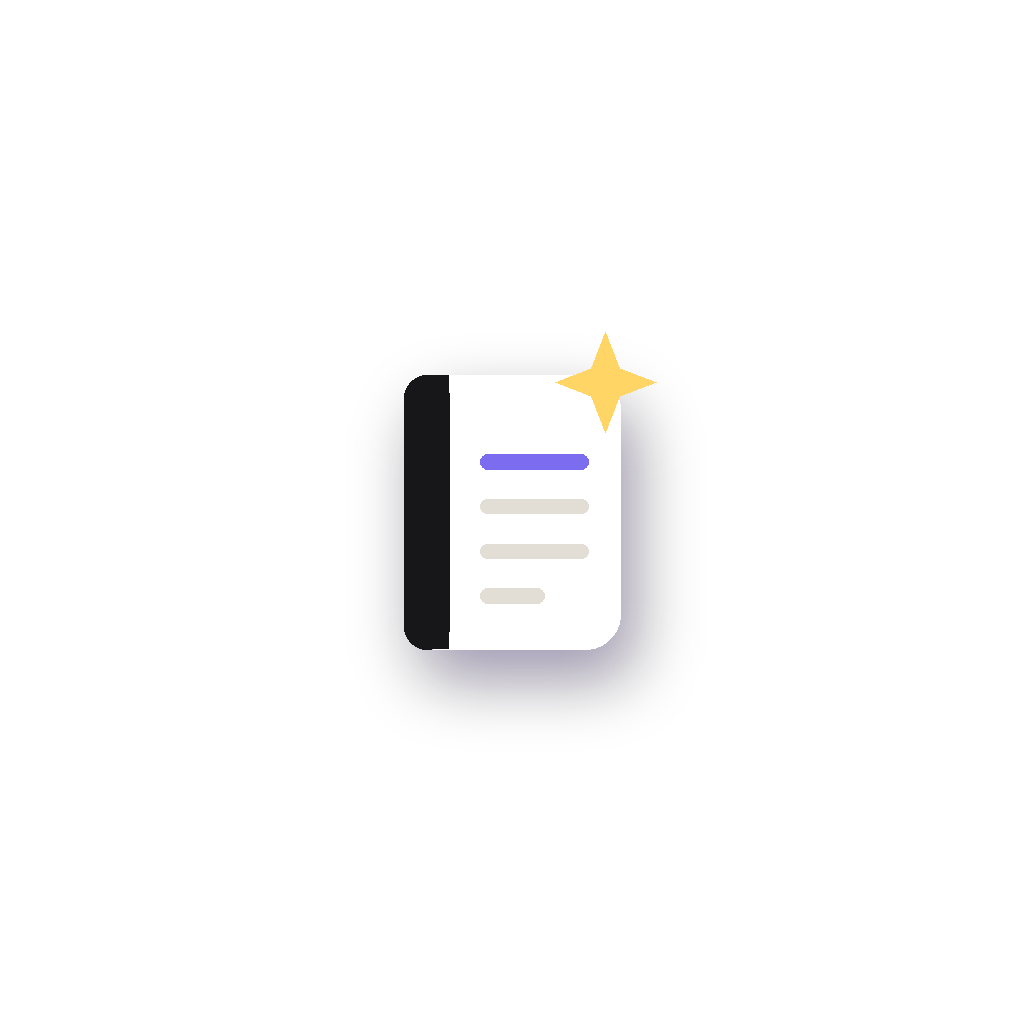
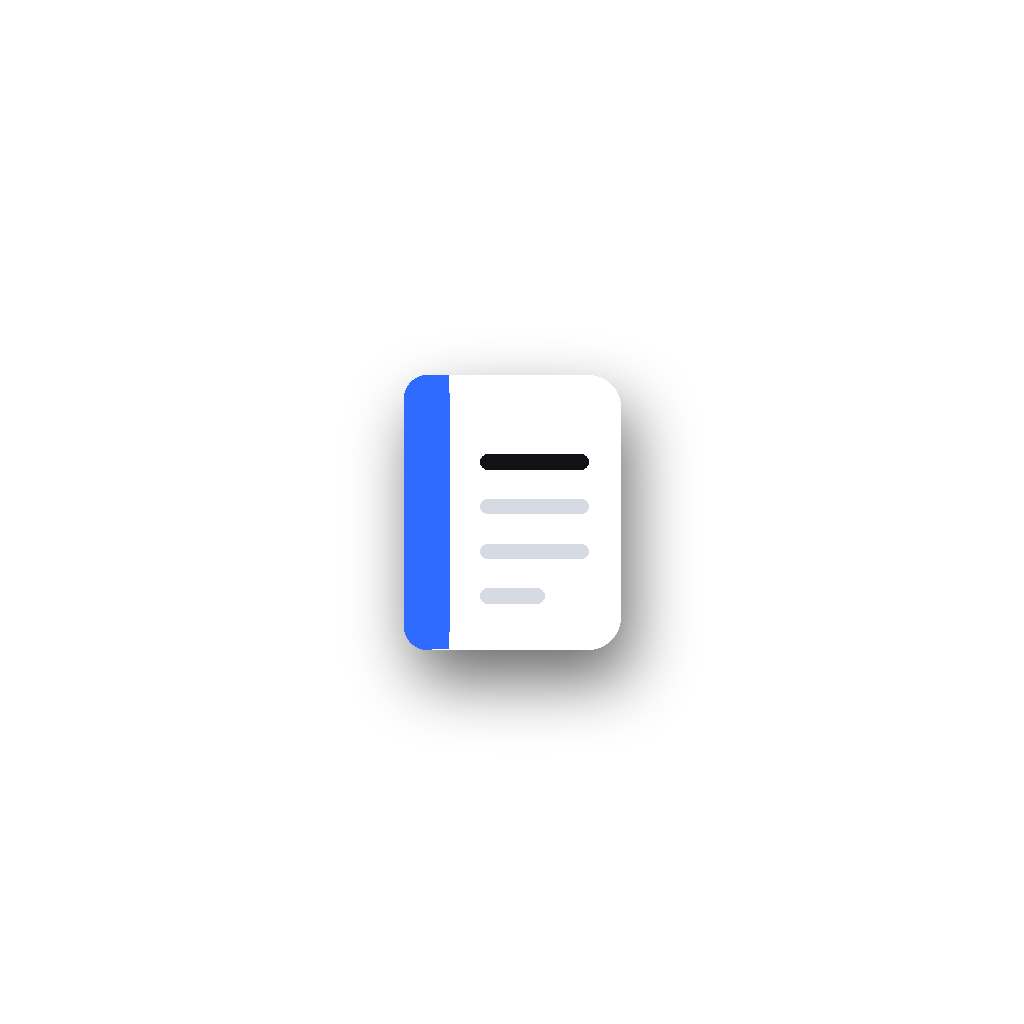
Wygląd: jedna czysta czcionka (Inter), chłodne kolory, bez ozdobników; nowa ikona
Claude-Session: https://claude.ai/code/session_01J23tLEMN7w8JehyoJbj2NF

Changed region(s): [[0.375, 0.3438, 0.625, 0.6875], [0.5312, 0.3125, 0.625, 0.4062]]

diff --git a/src/styles.css b/src/styles.css
@@ -1,17 +1,15 @@
-@import "@fontsource-variable/plus-jakarta-sans/index.css";
-@import "@fontsource/instrument-serif/400.css";
-@import "@fontsource/instrument-serif/400-italic.css";
+@import "@fontsource-variable/inter/index.css";
 
 :root {
-  --accent: #7c6cf0;
+  --accent: #2f6bff;
   --accent-ink: #fff;
-  --bg: #f4f2ed;
+  --bg: #f2f3f5;
   --surface: #ffffff;
-  --surface-2: #ebe8e1;
-  --surface-3: #e2ded5;
-  --ink: #17171a;
-  --ink-2: #4a4945;
-  --muted: #8e8b84;
+  --surface-2: #e8eaee;
+  --surface-3: #dcdfe5;
+  --ink: #0c0d10;
+  --ink-2: #464a52;
+  --muted: #858a94;
   --line: rgba(20, 18, 14, 0.07);
   --shadow: 0 1px 2px rgba(20, 18, 14, 0.04), 0 8px 24px -12px rgba(20, 18, 14, 0.12);
   --shadow-lg: 0 24px 60px -20px rgba(20, 18, 14, 0.35);
@@ -25,8 +23,8 @@
   --sab: var(--safe-area-inset-bottom, env(safe-area-inset-bottom, 0px));
   --ease: cubic-bezier(0.22, 1, 0.36, 1);
   --spring: cubic-bezier(0.34, 1.56, 0.64, 1);
-  --font: "Plus Jakarta Sans Variable", system-ui, sans-serif;
-  --serif: "Instrument Serif", Georgia, serif;
+  --font: "Inter Variable", system-ui, sans-serif;
+  --serif: "Inter Variable", system-ui, sans-serif;
   color-scheme: light;
 }
 :root.dark {
@@ -50,7 +48,7 @@ input, textarea, select, button { font: inherit; color: inherit; }
 button { border: 0; background: none; padding: 0; cursor: pointer; }
 textarea, input { user-select: text; }
 svg { display: block; }
-.serif { font-family: var(--serif); font-weight: 400; letter-spacing: -0.01em; }
+.serif { font-family: var(--font); font-weight: 800; letter-spacing: -0.045em; }
 .muted { color: var(--muted); }
 .hidden { display: none !important; }
 
@@ -86,7 +84,7 @@ svg { display: block; }
 .hello { margin: 6px 0 22px; animation: rise .6s var(--ease) both; }
 .hello .date { font-size: 13px; color: var(--muted); font-weight: 600; text-transform: uppercase; letter-spacing: .08em; }
 .hello h1 { margin: 6px 0 0; font-size: 40px; line-height: 1.02; }
-.hello h1 em { color: var(--accent); }
+.hello h1 span { color: var(--accent); }
 .title-row { display: flex; align-items: flex-end; justify-content: space-between; margin: 6px 0 20px; }
 .title-row h1 { margin: 0; font-size: 42px; line-height: 1; }
 .title-row .sub { font-size: 13px; color: var(--muted); margin-top: 6px; font-weight: 500; }
@@ -116,7 +114,7 @@ svg { display: block; }
 .hero .label { font-size: 12px; text-transform: uppercase; letter-spacing: .1em; opacity: .6; font-weight: 700; display: flex; align-items: center; gap: 8px; }
 .hero .label .live { width: 8px; height: 8px; border-radius: 50%; background: #4ade80; box-shadow: 0 0 0 0 rgba(74,222,128,.6); animation: ping 1.8s infinite; }
 @keyframes ping { 0% { box-shadow: 0 0 0 0 rgba(74,222,128,.6) } 100% { box-shadow: 0 0 0 10px rgba(74,222,128,0) } }
-.hero .big { font-family: var(--serif); font-size: 36px; line-height: 1.05; margin: 10px 0 4px; }
+.hero .big { font-family: var(--font); font-weight: 800 !important; letter-spacing: -0.045em; font-size: 36px; line-height: 1.05; margin: 10px 0 4px; }
 .hero .meta { font-size: 13px; opacity: .7; }
 .hero .bar { height: 4px; background: rgba(255,255,255,.15); border-radius: 4px; margin-top: 16px; overflow: hidden; }
 :root.dark .hero { background: var(--surface-2); color: var(--ink); }
@@ -135,11 +133,11 @@ svg { display: block; }
 .quick .ic svg { width: 20px; height: 20px; }
 
 .countdown { display: flex; align-items: center; gap: 16px; }
-.countdown .num { font-family: var(--serif); font-size: 54px; line-height: .9; color: var(--accent); font-variant-numeric: tabular-nums; }
+.countdown .num { font-family: var(--font); font-weight: 800 !important; letter-spacing: -0.045em; font-size: 54px; line-height: .9; color: var(--accent); font-variant-numeric: tabular-nums; }
 .countdown .txt { font-size: 13px; color: var(--muted); line-height: 1.4; }
 .countdown .txt b { color: var(--ink); display: block; font-size: 15px; }
 
-.quote { font-family: var(--serif); font-style: italic; font-size: 22px; line-height: 1.25; }
+.quote { font-family: var(--font); font-weight: 800 !important; letter-spacing: -0.045em; font-style: italic; font-size: 22px; line-height: 1.25; }
 .quote small { display: block; font-family: var(--font); font-style: normal; font-size: 12px; color: var(--muted); margin-top: 10px; }
 
 /* ---------- reminders ---------- */
@@ -186,9 +184,9 @@ svg { display: block; }
 
 /* ---------- empty ---------- */
 .empty { text-align: center; padding: 50px 20px; animation: rise .6s var(--ease) both; }
-.empty .blob { width: 120px; height: 120px; margin: 0 auto 18px; border-radius: 42% 58% 63% 37% / 41% 44% 56% 59%; background: color-mix(in srgb, var(--accent) 16%, transparent); display: grid; place-items: center; font-size: 46px; animation: morph 8s ease-in-out infinite; }
+.empty .blob { width: 120px; height: 120px; margin: 0 auto 18px; border-radius: 32px; background: var(--surface); box-shadow: var(--shadow); display: grid; place-items: center; font-size: 46px; }
 @keyframes morph { 0%,100% { border-radius: 42% 58% 63% 37% / 41% 44% 56% 59%; } 50% { border-radius: 63% 37% 38% 62% / 55% 61% 39% 45%; transform: rotate(8deg); } }
-.empty h4 { font-family: var(--serif); font-size: 26px; font-weight: 400; margin: 0 0 6px; }
+.empty h4 { font-family: var(--font); font-weight: 800 !important; letter-spacing: -0.045em; font-size: 26px; font-weight: 400; margin: 0 0 6px; }
 .empty p { color: var(--muted); font-size: 14px; margin: 0 auto; max-width: 260px; line-height: 1.5; }
 
 /* ---------- notes ---------- */
@@ -211,7 +209,7 @@ svg { display: block; }
 .nd-hero { border-radius: var(--r-lg); overflow: hidden; position: relative; aspect-ratio: 16/10; background: var(--surface-2) center/cover; box-shadow: var(--shadow); animation: zoomIn .6s var(--ease) both; }
 @keyframes zoomIn { from { transform: scale(.94); opacity: 0 } }
 .nd-hero .count { position: absolute; right: 12px; bottom: 12px; background: rgba(0,0,0,.55); color: #fff; font-size: 12px; font-weight: 700; padding: 6px 10px; border-radius: 99px; backdrop-filter: blur(8px); }
-.nd-title { font-family: var(--serif); font-size: 34px; line-height: 1.05; margin: 20px 0 8px; }
+.nd-title { font-family: var(--font); font-weight: 800 !important; letter-spacing: -0.045em; font-size: 34px; line-height: 1.05; margin: 20px 0 8px; }
 .tabs { display: flex; gap: 6px; overflow-x: auto; margin: 18px -20px 14px; padding: 0 20px; scrollbar-width: none; }
 .tabs::-webkit-scrollbar { display: none; }
 .tabs button { flex: none; padding: 9px 14px; border-radius: 99px; font-size: 13px; font-weight: 650; color: var(--muted); background: var(--surface-2); transition: all .3s var(--ease); }
@@ -261,7 +259,7 @@ svg { display: block; }
 .fc .back { transform: rotateY(180deg); background: var(--ink); color: var(--bg); }
 :root.dark .fc .back { background: var(--accent); color: #fff; }
 .fc .side .k { font-size: 11px; text-transform: uppercase; letter-spacing: .14em; font-weight: 700; opacity: .5; position: absolute; top: 22px; }
-.fc .side .q { font-family: var(--serif); font-size: 30px; line-height: 1.15; }
+.fc .side .q { font-family: var(--font); font-weight: 800 !important; letter-spacing: -0.045em; font-size: 30px; line-height: 1.15; }
 .fc .side .a { font-size: 18px; line-height: 1.5; }
 .fc .side .hint { position: absolute; bottom: 20px; font-size: 12px; opacity: .45; }
 .fc-btns { display: grid; grid-template-columns: 1fr 1fr; gap: 12px; margin-top: 22px; }
@@ -269,7 +267,7 @@ svg { display: block; }
 .progress i { display: block; height: 100%; background: var(--accent); border-radius: 6px; transition: width .5s var(--ease); }
 
 /* quiz */
-.qz-q { font-family: var(--serif); font-size: 28px; line-height: 1.15; margin: 22px 0 22px; animation: rise .5s var(--ease) both; }
+.qz-q { font-family: var(--font); font-weight: 800 !important; letter-spacing: -0.045em; font-size: 28px; line-height: 1.15; margin: 22px 0 22px; animation: rise .5s var(--ease) both; }
 .qz-opt { display: flex; align-items: center; gap: 12px; width: 100%; text-align: left; background: var(--surface); border-radius: 18px; padding: 16px; font-size: 15px; font-weight: 550; box-shadow: var(--shadow); border: 2px solid transparent; transition: all .3s var(--ease); animation: rise .5s var(--ease) both; }
 .qz-opt + .qz-opt { margin-top: 10px; }
 .qz-opt .l { width: 30px; height: 30px; border-radius: 10px; background: var(--surface-2); display: grid; place-items: center; font-weight: 800; font-size: 13px; flex: none; transition: all .3s; }
@@ -281,7 +279,7 @@ svg { display: block; }
 .result-ring { width: 180px; height: 180px; margin: 30px auto 10px; position: relative; }
 .result-ring svg { width: 100%; height: 100%; transform: rotate(-90deg); }
 .result-ring .c { position: absolute; inset: 0; display: grid; place-items: center; text-align: center; }
-.result-ring .c b { font-family: var(--serif); font-size: 52px; font-weight: 400; display: block; line-height: 1; }
+.result-ring .c b { font-family: var(--font); font-weight: 800 !important; letter-spacing: -0.045em; font-size: 52px; font-weight: 400; display: block; line-height: 1; }
 
 /* ---------- focus ---------- */
 .focus-ring { width: min(78vw, 300px); aspect-ratio: 1; margin: 20px auto 10px; position: relative; }
@@ -290,7 +288,7 @@ svg { display: block; }
 .focus-ring .trk { stroke: var(--surface-2); }
 .focus-ring .val { stroke: var(--accent); transition: stroke-dashoffset 1s linear; filter: drop-shadow(0 0 10px color-mix(in srgb, var(--accent) 50%, transparent)); }
 .focus-ring .c { position: absolute; inset: 0; display: grid; place-items: center; text-align: center; }
-.focus-ring .time { font-family: var(--serif); font-size: 68px; line-height: 1; font-variant-numeric: tabular-nums; }
+.focus-ring .time { font-family: var(--font); font-weight: 800 !important; letter-spacing: -0.045em; font-size: 68px; line-height: 1; font-variant-numeric: tabular-nums; }
 .focus-ring .mode { font-size: 12px; font-weight: 700; letter-spacing: .14em; text-transform: uppercase; color: var(--muted); margin-top: 6px; }
 .focus-ring.run .val { animation: breathe 4s ease-in-out infinite; }
 @keyframes breathe { 50% { filter: drop-shadow(0 0 22px color-mix(in srgb, var(--accent) 70%, transparent)); } }
@@ -351,7 +349,7 @@ svg { display: block; }
 @keyframes pop { from { transform: scale(0) } }
 .g sup { position: absolute; top: -4px; right: -4px; font-size: 9px; background: var(--ink); color: var(--bg); border-radius: 6px; padding: 1px 4px; }
 .big-avg { text-align: center; padding: 10px 0 4px; }
-.big-avg b { font-family: var(--serif); font-size: 72px; font-weight: 400; line-height: 1; color: var(--accent); }
+.big-avg b { font-family: var(--font); font-weight: 800 !important; letter-spacing: -0.045em; font-size: 72px; font-weight: 400; line-height: 1; color: var(--accent); }
 .big-avg span { display: block; font-size: 13px; color: var(--muted); font-weight: 600; margin-top: 4px; }
 
 /* ---------- nav ---------- */
@@ -377,7 +375,7 @@ svg { display: block; }
 .sheet::-webkit-scrollbar { display: none; }
 .sheet.in { transform: none; }
 .sheet .grab { width: 40px; height: 5px; border-radius: 5px; background: var(--surface-3); margin: 0 auto 14px; }
-.sheet h3 { font-family: var(--serif); font-weight: 400; font-size: 30px; margin: 4px 0 18px; }
+.sheet h3 { font-family: var(--font); font-weight: 800 !important; letter-spacing: -0.045em; font-weight: 400; font-size: 30px; margin: 4px 0 18px; }
 .field { margin-bottom: 16px; }
 .field label { display: block; font-size: 12px; font-weight: 700; color: var(--muted); text-transform: uppercase; letter-spacing: .08em; margin: 0 0 8px 4px; }
 .inp { width: 100%; border: 0; outline: 0; background: var(--surface); border-radius: 16px; padding: 14px 16px; font-size: 16px; box-shadow: var(--shadow); transition: box-shadow .25s; }
@@ -421,7 +419,7 @@ textarea.inp { resize: none; min-height: 84px; line-height: 1.5; }
 @keyframes spinSlow { to { rotate: 360deg } }
 .onb .orb-emoji { position: absolute; font-size: 74px; animation: bob 3s ease-in-out infinite; }
 @keyframes bob { 50% { transform: translateY(-10px) rotate(-6deg) } }
-.onb h1 { font-family: var(--serif); font-weight: 400; font-size: 46px; line-height: 1; margin: 0 0 12px; animation: rise .7s var(--ease) both .1s; }
+.onb h1 { font-family: var(--font); font-weight: 800 !important; letter-spacing: -0.045em; font-weight: 400; font-size: 46px; line-height: 1; margin: 0 0 12px; animation: rise .7s var(--ease) both .1s; }
 .onb p { color: var(--muted); font-size: 15px; line-height: 1.55; margin: 0 0 22px; animation: rise .7s var(--ease) both .2s; }
 .onb .inp, .onb .btn { animation: rise .7s var(--ease) both .3s; }
 
@@ -435,3 +433,18 @@ textarea.inp { resize: none; min-height: 84px; line-height: 1.5; }
 .page-bar { background: color-mix(in srgb, var(--bg) 85%, transparent); backdrop-filter: blur(14px); -webkit-backdrop-filter: blur(14px); margin: -10px -20px 8px; padding: 10px 20px 0; height: 62px; top: calc(-10px - var(--sat)); padding-top: calc(10px); }
 .card .inp { background: var(--surface-2); box-shadow: none; }
 .card .inp:focus { box-shadow: 0 0 0 2px var(--accent); }
+
+/* --- clean overrides --- */
+.quote { font-weight: 600 !important; font-style: normal; font-size: 17px; letter-spacing: -0.01em; line-height: 1.45; }
+.title-row h1 { font-size: 38px; }
+.hello h1 { font-size: 36px; }
+.nd-title { font-size: 28px; }
+.qz-q { font-size: 24px; letter-spacing: -0.03em; }
+.fc .side .q { font-size: 26px; letter-spacing: -0.03em; }
+.hero .big { font-size: 30px; }
+.big-avg b, .result-ring .c b, .focus-ring .time { letter-spacing: -0.05em; }
+.focus-ring .time { font-size: 60px; }
+.onb .logo { width: 120px; height: 120px; border-radius: 34px; background: #111214; display: grid; place-items: center; box-shadow: 0 30px 70px -25px var(--accent); animation: rise .7s var(--ease) both; }
+.onb .logo svg { width: 56px; height: 56px; color: #fff; }
+.onb .logo .dot { position: absolute; }
+.onb h1 { font-family: var(--font); font-weight: 800; letter-spacing: -0.045em; font-size: 40px; }

diff --git a/src/main.js b/src/main.js
@@ -23,13 +23,13 @@ const MONTHS = ['stycznia', 'lutego', 'marca', 'kwietnia', 'maja', 'czerwca', 'l
 const plural = (n, a, b, c) => (n === 1 ? a : n % 10 >= 2 && n % 10 <= 4 && (n % 100 < 10 || n % 100 >= 20) ? b : c);
 
 /* ======================= STATE ======================= */
-const COLORS = ['#7c6cf0', '#e0679a', '#f08a5d', '#e9b949', '#5e9e7e', '#3b9fc4', '#4f6bed', '#a35ee0', '#8a8780', '#e5534b'];
-const ACCENTS = [['Lawenda', '#7c6cf0'], ['Szałwia', '#4f9a76'], ['Brzoskwinia', '#ec7f52'], ['Ocean', '#3384c4'], ['Róż', '#de5f95'], ['Grafit', '#3a3a40']];
+const COLORS = ['#2f6bff', '#0891b2', '#f97316', '#eab308', '#16a34a', '#0ea5e9', '#6366f1', '#64748b', '#ef4444', '#14b8a6'];
+const ACCENTS = [['Niebieski', '#2f6bff'], ['Zielony', '#16a34a'], ['Pomarańczowy', '#f97316'], ['Czerwony', '#ef4444'], ['Turkusowy', '#0891b2'], ['Grafit', '#27272a']];
 const EMOJIS = ['📘', '📐', '🧪', '🧬', '🌍', '🏛', '🇬🇧', '🇩🇪', '💻', '⚽', '🎨', '🎵', '⚛', '📖', '✝', '🧠', '💼', '🔢', '🧲', '🌱', '📝', '🎭', '🏥', '⭐'];
 const defaultSubjects = () => [
-  ['Polski', '📖', '#e0679a'], ['Matematyka', '📐', '#4f6bed'], ['Angielski', '🇬🇧', '#3b9fc4'], ['Historia', '🏛', '#e9b949'],
-  ['Biologia', '🧬', '#5e9e7e'], ['Chemia', '🧪', '#a35ee0'], ['Fizyka', '⚛', '#f08a5d'], ['Geografia', '🌍', '#3fa672'],
-  ['Informatyka', '💻', '#7c6cf0'], ['WF', '⚽', '#8a8780'],
+  ['Polski', '📖', '#ef4444'], ['Matematyka', '📐', '#2f6bff'], ['Angielski', '🇬🇧', '#0ea5e9'], ['Historia', '🏛', '#eab308'],
+  ['Biologia', '🧬', '#16a34a'], ['Chemia', '🧪', '#6366f1'], ['Fizyka', '⚛', '#f97316'], ['Geografia', '🌍', '#14b8a6'],
+  ['Informatyka', '💻', '#0891b2'], ['WF', '⚽', '#64748b'],
 ].map(([name, emoji, color]) => ({ id: uid(), name, emoji, color }));
 
 const TYPES = [
@@ -46,7 +46,7 @@ const REMIND = [
 
 let S = null;
 const blank = () => ({
-  v: 1, name: '', theme: 'auto', accent: '#7c6cf0', apiKey: '', model: 'claude-haiku-5-5', aiProvider: 'gemini', geminiKey: '', geminiModel: 'gemini-flash-latest',
+  v: 1, name: '', theme: 'auto', accent: '#2f6bff', apiKey: '', model: 'claude-haiku-5-5', aiProvider: 'gemini', geminiKey: '', geminiModel: 'gemini-flash-latest',
   subjects: defaultSubjects(), reminders: [], notes: [], cards: {}, timetable: { 1: [], 2: [], 3: [], 4: [], 5: [] },
   grades: [], focus: {}, activity: {}, focusCfg: { work: 25, brk: 5 }, vacation: '2027-06-25', digest: true, onboarded: false,
 });
@@ -89,7 +89,7 @@ function confetti(x = innerWidth / 2, y = innerHeight / 2, n = 90) {
   document.body.append(c);
   const g = c.getContext('2d'); g.scale(devicePixelRatio, devicePixelRatio);
   const acc = getComputedStyle(document.documentElement).getPropertyValue('--accent').trim();
-  const cols = [acc, '#f0a6ca', '#9be7c4', '#ffd166', '#7cc6fe'];
+  const cols = [acc, '#facc15', '#22c55e', '#38bdf8', '#f97316'];
   const ps = Array.from({ length: n }, () => {
     const a = Math.random() * Math.PI * 2, v = 4 + Math.random() * 9;
     return { x, y, vx: Math.cos(a) * v, vy: Math.sin(a) * v - 6, r: Math.random() * 6 + 3, c: cols[(Math.random() * cols.length) | 0], rot: Math.random() * 6, vr: (Math.random() - 0.5) * 0.4, s: Math.random() > 0.5 };
@@ -359,7 +359,7 @@ function viewHome(v) {
   const vac = Math.max(0, dayDiff(new Date(S.vacation + 'T00:00')));
   const recent = S.notes.slice(0, 2);
   v.innerHTML = `
-  <div class="hello"><div class="date">${fmtLong(new Date())}</div><h1 class="serif">${greet}${S.name ? ',<br><em>' + esc(S.name) + '</em>' : ''}</h1></div>
+  <div class="hello"><div class="date">${fmtLong(new Date())}</div><h1 class="serif">${greet}${S.name ? ',<br><span>' + esc(S.name) + '</span>' : ''}</h1></div>
   <div class="stagger">
     ${heroHTML()}
     <div class="stats">
@@ -1044,7 +1044,7 @@ function viewMore(v) {
     <button class="row" data-go="settings"><div class="ic">${ic('gear')}</div><div class="main"><b>Ustawienia</b><span>wygląd, AI, powiadomienia</span></div><div class="end">${ic('chev')}</div></button>
     <button class="row" data-theme><div class="ic">${ic(document.documentElement.classList.contains('dark') ? 'sun' : 'moon')}</div><div class="main"><b>Tryb ${document.documentElement.classList.contains('dark') ? 'jasny' : 'ciemny'}</b><span>przełącz szybko</span></div></button>
   </div>
-  <p class="kbd-note" style="text-align:center;margin-top:30px">Zeszyt · v1.0 · zrobione z 💜</p>`;
+  <p class="kbd-note" style="text-align:center;margin-top:30px">Zeszyt · v1.1</p>`;
   bindCommon(v);
   $('[data-theme]', v).onclick = () => { S.theme = document.documentElement.classList.contains('dark') ? 'light' : 'dark'; save(); applyTheme(); haptic(); render(); };
 }
@@ -1124,8 +1124,8 @@ function pageSettings() {
 /* ======================= ONBOARDING ======================= */
 function onboarding() {
   const o = document.createElement('div'); o.className = 'onb';
-  o.innerHTML = `<div class="art"><div class="orb"></div><div class="orb-emoji">📚</div></div>
-    <h1>Twój szkolny<br><i>zeszyt</i>.</h1>
+  o.innerHTML = `<div class="art"><div class="logo">${ic('note')}</div></div>
+    <h1>Zeszyt.</h1>
     <p>Przypominajki o sprawdzianach, notatki ze zdjęć streszczane przez AI, fiszki, quizy, plan lekcji i oceny — w jednym miejscu.</p>
     <input class="inp" id="ob-n" placeholder="Jak masz na imię?" style="margin-bottom:12px">
     <button class="btn" id="ob-go">Zaczynamy →</button>`;
@@ -1143,6 +1143,7 @@ function onboarding() {
 async function boot() {
   try { S = await kvGet('state'); } catch {}
   S = { ...blank(), ...(S || {}) };
+  if (['#7c6cf0', '#de5f95', '#4f9a76', '#ec7f52', '#3384c4', '#3a3a40'].includes(S.accent)) S.accent = '#2f6bff';
   applyTheme();
   buildShell();
   render(true);

diff --git a/www/index.html b/www/index.html
@@ -3,7 +3,7 @@
 <head>
 <meta charset="utf-8">
 <meta name="viewport" content="width=device-width, initial-scale=1, viewport-fit=cover, maximum-scale=1, user-scalable=no">
-<meta name="theme-color" content="#f4f2ed">
+<meta name="theme-color" content="#f2f3f5">
 <title>Zeszyt</title>
 <link rel="stylesheet" href="app.css">
 </head>
